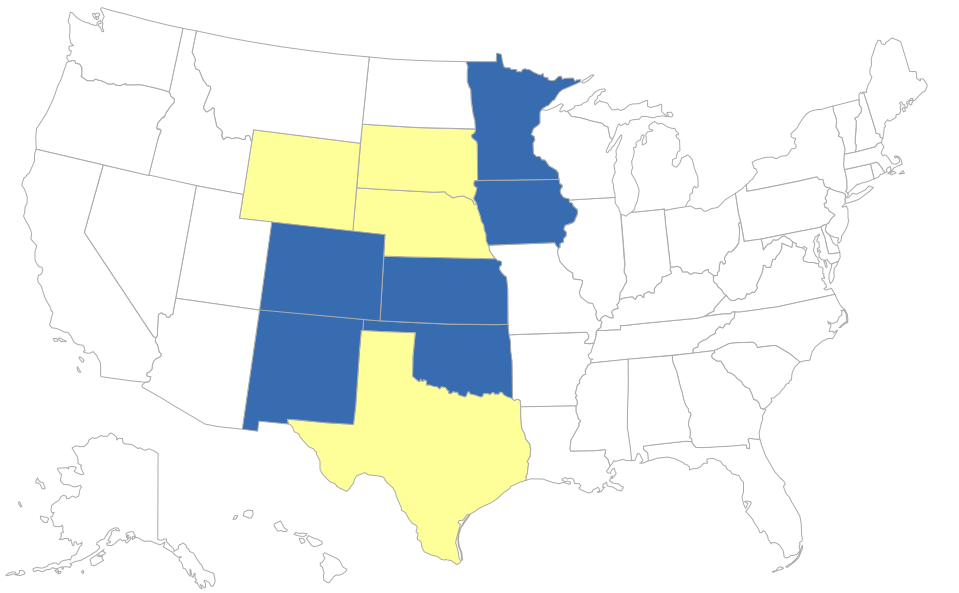
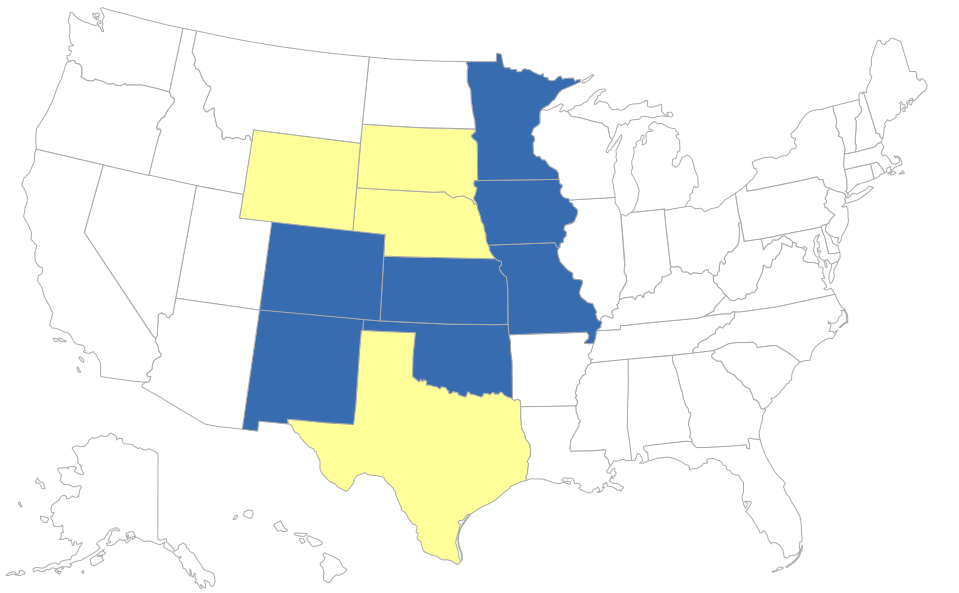
masonry!

Changed region(s): [[0.5141, 0.3946, 0.635, 0.5767]]

diff --git a/js/masonry.pkgd.min.js b/js/masonry.pkgd.min.js
@@ -1,0 +1,9 @@
+/*!
+ * Masonry PACKAGED v3.1.5
+ * Cascading grid layout library
+ * http://masonry.desandro.com
+ * MIT License
+ * by David DeSandro
+ */
+
+!function(a){function b(){}function c(a){function c(b){b.prototype.option||(b.prototype.option=function(b){a.isPlainObject(b)&&(this.options=a.extend(!0,this.options,b))})}function e(b,c){a.fn[b]=function(e){if("string"==typeof e){for(var g=d.call(arguments,1),h=0,i=this.length;i>h;h++){var j=this[h],k=a.data(j,b);if(k)if(a.isFunction(k[e])&&"_"!==e.charAt(0)){var l=k[e].apply(k,g);if(void 0!==l)return l}else f("no such method '"+e+"' for "+b+" instance");else f("cannot call methods on "+b+" prior to initialization; attempted to call '"+e+"'")}return this}return this.each(function(){var d=a.data(this,b);d?(d.option(e),d._init()):(d=new c(this,e),a.data(this,b,d))})}}if(a){var f="undefined"==typeof console?b:function(a){console.error(a)};return a.bridget=function(a,b){c(b),e(a,b)},a.bridget}}var d=Array.prototype.slice;"function"==typeof define&&define.amd?define("jquery-bridget/jquery.bridget",["jquery"],c):c(a.jQuery)}(window),function(a){function b(b){var c=a.event;return c.target=c.target||c.srcElement||b,c}var c=document.documentElement,d=function(){};c.addEventListener?d=function(a,b,c){a.addEventListener(b,c,!1)}:c.attachEvent&&(d=function(a,c,d){a[c+d]=d.handleEvent?function(){var c=b(a);d.handleEvent.call(d,c)}:function(){var c=b(a);d.call(a,c)},a.attachEvent("on"+c,a[c+d])});var e=function(){};c.removeEventListener?e=function(a,b,c){a.removeEventListener(b,c,!1)}:c.detachEvent&&(e=function(a,b,c){a.detachEvent("on"+b,a[b+c]);try{delete a[b+c]}catch(d){a[b+c]=void 0}});var f={bind:d,unbind:e};"function"==typeof define&&define.amd?define("eventie/eventie",f):"object"==typeof exports?module.exports=f:a.eventie=f}(this),function(a){function b(a){"function"==typeof a&&(b.isReady?a():f.push(a))}function c(a){var c="readystatechange"===a.type&&"complete"!==e.readyState;if(!b.isReady&&!c){b.isReady=!0;for(var d=0,g=f.length;g>d;d++){var h=f[d];h()}}}function d(d){return d.bind(e,"DOMContentLoaded",c),d.bind(e,"readystatechange",c),d.bind(a,"load",c),b}var e=a.document,f=[];b.isReady=!1,"function"==typeof define&&define.amd?(b.isReady="function"==typeof requirejs,define("doc-ready/doc-ready",["eventie/eventie"],d)):a.docReady=d(a.eventie)}(this),function(){function a(){}function b(a,b){for(var c=a.length;c--;)if(a[c].listener===b)return c;return-1}function c(a){return function(){return this[a].apply(this,arguments)}}var d=a.prototype,e=this,f=e.EventEmitter;d.getListeners=function(a){var b,c,d=this._getEvents();if(a instanceof RegExp){b={};for(c in d)d.hasOwnProperty(c)&&a.test(c)&&(b[c]=d[c])}else b=d[a]||(d[a]=[]);return b},d.flattenListeners=function(a){var b,c=[];for(b=0;b<a.length;b+=1)c.push(a[b].listener);return c},d.getListenersAsObject=function(a){var b,c=this.getListeners(a);return c instanceof Array&&(b={},b[a]=c),b||c},d.addListener=function(a,c){var d,e=this.getListenersAsObject(a),f="object"==typeof c;for(d in e)e.hasOwnProperty(d)&&-1===b(e[d],c)&&e[d].push(f?c:{listener:c,once:!1});return this},d.on=c("addListener"),d.addOnceListener=function(a,b){return this.addListener(a,{listener:b,once:!0})},d.once=c("addOnceListener"),d.defineEvent=function(a){return this.getListeners(a),this},d.defineEvents=function(a){for(var b=0;b<a.length;b+=1)this.defineEvent(a[b]);return this},d.removeListener=function(a,c){var d,e,f=this.getListenersAsObject(a);for(e in f)f.hasOwnProperty(e)&&(d=b(f[e],c),-1!==d&&f[e].splice(d,1));return this},d.off=c("removeListener"),d.addListeners=function(a,b){return this.manipulateListeners(!1,a,b)},d.removeListeners=function(a,b){return this.manipulateListeners(!0,a,b)},d.manipulateListeners=function(a,b,c){var d,e,f=a?this.removeListener:this.addListener,g=a?this.removeListeners:this.addListeners;if("object"!=typeof b||b instanceof RegExp)for(d=c.length;d--;)f.call(this,b,c[d]);else for(d in b)b.hasOwnProperty(d)&&(e=b[d])&&("function"==typeof e?f.call(this,d,e):g.call(this,d,e));return this},d.removeEvent=function(a){var b,c=typeof a,d=this._getEvents();if("string"===c)delete d[a];else if(a instanceof RegExp)for(b in d)d.hasOwnProperty(b)&&a.test(b)&&delete d[b];else delete this._events;return this},d.removeAllListeners=c("removeEvent"),d.emitEvent=function(a,b){var c,d,e,f,g=this.getListenersAsObject(a);for(e in g)if(g.hasOwnProperty(e))for(d=g[e].length;d--;)c=g[e][d],c.once===!0&&this.removeListener(a,c.listener),f=c.listener.apply(this,b||[]),f===this._getOnceReturnValue()&&this.removeListener(a,c.listener);return this},d.trigger=c("emitEvent"),d.emit=function(a){var b=Array.prototype.slice.call(arguments,1);return this.emitEvent(a,b)},d.setOnceReturnValue=function(a){return this._onceReturnValue=a,this},d._getOnceReturnValue=function(){return this.hasOwnProperty("_onceReturnValue")?this._onceReturnValue:!0},d._getEvents=function(){return this._events||(this._events={})},a.noConflict=function(){return e.EventEmitter=f,a},"function"==typeof define&&define.amd?define("eventEmitter/EventEmitter",[],function(){return a}):"object"==typeof module&&module.exports?module.exports=a:this.EventEmitter=a}.call(this),function(a){function b(a){if(a){if("string"==typeof d[a])return a;a=a.charAt(0).toUpperCase()+a.slice(1);for(var b,e=0,f=c.length;f>e;e++)if(b=c[e]+a,"string"==typeof d[b])return b}}var c="Webkit Moz ms Ms O".split(" "),d=document.documentElement.style;"function"==typeof define&&define.amd?define("get-style-property/get-style-property",[],function(){return b}):"object"==typeof exports?module.exports=b:a.getStyleProperty=b}(window),function(a){function b(a){var b=parseFloat(a),c=-1===a.indexOf("%")&&!isNaN(b);return c&&b}function c(){for(var a={width:0,height:0,innerWidth:0,innerHeight:0,outerWidth:0,outerHeight:0},b=0,c=g.length;c>b;b++){var d=g[b];a[d]=0}return a}function d(a){function d(a){if("string"==typeof a&&(a=document.querySelector(a)),a&&"object"==typeof a&&a.nodeType){var d=f(a);if("none"===d.display)return c();var e={};e.width=a.offsetWidth,e.height=a.offsetHeight;for(var k=e.isBorderBox=!(!j||!d[j]||"border-box"!==d[j]),l=0,m=g.length;m>l;l++){var n=g[l],o=d[n];o=h(a,o);var p=parseFloat(o);e[n]=isNaN(p)?0:p}var q=e.paddingLeft+e.paddingRight,r=e.paddingTop+e.paddingBottom,s=e.marginLeft+e.marginRight,t=e.marginTop+e.marginBottom,u=e.borderLeftWidth+e.borderRightWidth,v=e.borderTopWidth+e.borderBottomWidth,w=k&&i,x=b(d.width);x!==!1&&(e.width=x+(w?0:q+u));var y=b(d.height);return y!==!1&&(e.height=y+(w?0:r+v)),e.innerWidth=e.width-(q+u),e.innerHeight=e.height-(r+v),e.outerWidth=e.width+s,e.outerHeight=e.height+t,e}}function h(a,b){if(e||-1===b.indexOf("%"))return b;var c=a.style,d=c.left,f=a.runtimeStyle,g=f&&f.left;return g&&(f.left=a.currentStyle.left),c.left=b,b=c.pixelLeft,c.left=d,g&&(f.left=g),b}var i,j=a("boxSizing");return function(){if(j){var a=document.createElement("div");a.style.width="200px",a.style.padding="1px 2px 3px 4px",a.style.borderStyle="solid",a.style.borderWidth="1px 2px 3px 4px",a.style[j]="border-box";var c=document.body||document.documentElement;c.appendChild(a);var d=f(a);i=200===b(d.width),c.removeChild(a)}}(),d}var e=a.getComputedStyle,f=e?function(a){return e(a,null)}:function(a){return a.currentStyle},g=["paddingLeft","paddingRight","paddingTop","paddingBottom","marginLeft","marginRight","marginTop","marginBottom","borderLeftWidth","borderRightWidth","borderTopWidth","borderBottomWidth"];"function"==typeof define&&define.amd?define("get-size/get-size",["get-style-property/get-style-property"],d):"object"==typeof exports?module.exports=d(require("get-style-property")):a.getSize=d(a.getStyleProperty)}(window),function(a,b){function c(a,b){return a[h](b)}function d(a){if(!a.parentNode){var b=document.createDocumentFragment();b.appendChild(a)}}function e(a,b){d(a);for(var c=a.parentNode.querySelectorAll(b),e=0,f=c.length;f>e;e++)if(c[e]===a)return!0;return!1}function f(a,b){return d(a),c(a,b)}var g,h=function(){if(b.matchesSelector)return"matchesSelector";for(var a=["webkit","moz","ms","o"],c=0,d=a.length;d>c;c++){var e=a[c],f=e+"MatchesSelector";if(b[f])return f}}();if(h){var i=document.createElement("div"),j=c(i,"div");g=j?c:f}else g=e;"function"==typeof define&&define.amd?define("matches-selector/matches-selector",[],function(){return g}):window.matchesSelector=g}(this,Element.prototype),function(a){function b(a,b){for(var c in b)a[c]=b[c];return a}function c(a){for(var b in a)return!1;return b=null,!0}function d(a){return a.replace(/([A-Z])/g,function(a){return"-"+a.toLowerCase()})}function e(a,e,f){function h(a,b){a&&(this.element=a,this.layout=b,this.position={x:0,y:0},this._create())}var i=f("transition"),j=f("transform"),k=i&&j,l=!!f("perspective"),m={WebkitTransition:"webkitTransitionEnd",MozTransition:"transitionend",OTransition:"otransitionend",transition:"transitionend"}[i],n=["transform","transition","transitionDuration","transitionProperty"],o=function(){for(var a={},b=0,c=n.length;c>b;b++){var d=n[b],e=f(d);e&&e!==d&&(a[d]=e)}return a}();b(h.prototype,a.prototype),h.prototype._create=function(){this._transn={ingProperties:{},clean:{},onEnd:{}},this.css({position:"absolute"})},h.prototype.handleEvent=function(a){var b="on"+a.type;this[b]&&this[b](a)},h.prototype.getSize=function(){this.size=e(this.element)},h.prototype.css=function(a){var b=this.element.style;for(var c in a){var d=o[c]||c;b[d]=a[c]}},h.prototype.getPosition=function(){var a=g(this.element),b=this.layout.options,c=b.isOriginLeft,d=b.isOriginTop,e=parseInt(a[c?"left":"right"],10),f=parseInt(a[d?"top":"bottom"],10);e=isNaN(e)?0:e,f=isNaN(f)?0:f;var h=this.layout.size;e-=c?h.paddingLeft:h.paddingRight,f-=d?h.paddingTop:h.paddingBottom,this.position.x=e,this.position.y=f},h.prototype.layoutPosition=function(){var a=this.layout.size,b=this.layout.options,c={};b.isOriginLeft?(c.left=this.position.x+a.paddingLeft+"px",c.right=""):(c.right=this.position.x+a.paddingRight+"px",c.left=""),b.isOriginTop?(c.top=this.position.y+a.paddingTop+"px",c.bottom=""):(c.bottom=this.position.y+a.paddingBottom+"px",c.top=""),this.css(c),this.emitEvent("layout",[this])};var p=l?function(a,b){return"translate3d("+a+"px, "+b+"px, 0)"}:function(a,b){return"translate("+a+"px, "+b+"px)"};h.prototype._transitionTo=function(a,b){this.getPosition();var c=this.position.x,d=this.position.y,e=parseInt(a,10),f=parseInt(b,10),g=e===this.position.x&&f===this.position.y;if(this.setPosition(a,b),g&&!this.isTransitioning)return void this.layoutPosition();var h=a-c,i=b-d,j={},k=this.layout.options;h=k.isOriginLeft?h:-h,i=k.isOriginTop?i:-i,j.transform=p(h,i),this.transition({to:j,onTransitionEnd:{transform:this.layoutPosition},isCleaning:!0})},h.prototype.goTo=function(a,b){this.setPosition(a,b),this.layoutPosition()},h.prototype.moveTo=k?h.prototype._transitionTo:h.prototype.goTo,h.prototype.setPosition=function(a,b){this.position.x=parseInt(a,10),this.position.y=parseInt(b,10)},h.prototype._nonTransition=function(a){this.css(a.to),a.isCleaning&&this._removeStyles(a.to);for(var b in a.onTransitionEnd)a.onTransitionEnd[b].call(this)},h.prototype._transition=function(a){if(!parseFloat(this.layout.options.transitionDuration))return void this._nonTransition(a);var b=this._transn;for(var c in a.onTransitionEnd)b.onEnd[c]=a.onTransitionEnd[c];for(c in a.to)b.ingProperties[c]=!0,a.isCleaning&&(b.clean[c]=!0);if(a.from){this.css(a.from);var d=this.element.offsetHeight;d=null}this.enableTransition(a.to),this.css(a.to),this.isTransitioning=!0};var q=j&&d(j)+",opacity";h.prototype.enableTransition=function(){this.isTransitioning||(this.css({transitionProperty:q,transitionDuration:this.layout.options.transitionDuration}),this.element.addEventListener(m,this,!1))},h.prototype.transition=h.prototype[i?"_transition":"_nonTransition"],h.prototype.onwebkitTransitionEnd=function(a){this.ontransitionend(a)},h.prototype.onotransitionend=function(a){this.ontransitionend(a)};var r={"-webkit-transform":"transform","-moz-transform":"transform","-o-transform":"transform"};h.prototype.ontransitionend=function(a){if(a.target===this.element){var b=this._transn,d=r[a.propertyName]||a.propertyName;if(delete b.ingProperties[d],c(b.ingProperties)&&this.disableTransition(),d in b.clean&&(this.element.style[a.propertyName]="",delete b.clean[d]),d in b.onEnd){var e=b.onEnd[d];e.call(this),delete b.onEnd[d]}this.emitEvent("transitionEnd",[this])}},h.prototype.disableTransition=function(){this.removeTransitionStyles(),this.element.removeEventListener(m,this,!1),this.isTransitioning=!1},h.prototype._removeStyles=function(a){var b={};for(var c in a)b[c]="";this.css(b)};var s={transitionProperty:"",transitionDuration:""};return h.prototype.removeTransitionStyles=function(){this.css(s)},h.prototype.removeElem=function(){this.element.parentNode.removeChild(this.element),this.emitEvent("remove",[this])},h.prototype.remove=function(){if(!i||!parseFloat(this.layout.options.transitionDuration))return void this.removeElem();var a=this;this.on("transitionEnd",function(){return a.removeElem(),!0}),this.hide()},h.prototype.reveal=function(){delete this.isHidden,this.css({display:""});var a=this.layout.options;this.transition({from:a.hiddenStyle,to:a.visibleStyle,isCleaning:!0})},h.prototype.hide=function(){this.isHidden=!0,this.css({display:""});var a=this.layout.options;this.transition({from:a.visibleStyle,to:a.hiddenStyle,isCleaning:!0,onTransitionEnd:{opacity:function(){this.isHidden&&this.css({display:"none"})}}})},h.prototype.destroy=function(){this.css({position:"",left:"",right:"",top:"",bottom:"",transition:"",transform:""})},h}var f=a.getComputedStyle,g=f?function(a){return f(a,null)}:function(a){return a.currentStyle};"function"==typeof define&&define.amd?define("outlayer/item",["eventEmitter/EventEmitter","get-size/get-size","get-style-property/get-style-property"],e):(a.Outlayer={},a.Outlayer.Item=e(a.EventEmitter,a.getSize,a.getStyleProperty))}(window),function(a){function b(a,b){for(var c in b)a[c]=b[c];return a}function c(a){return"[object Array]"===l.call(a)}function d(a){var b=[];if(c(a))b=a;else if(a&&"number"==typeof a.length)for(var d=0,e=a.length;e>d;d++)b.push(a[d]);else b.push(a);return b}function e(a,b){var c=n(b,a);-1!==c&&b.splice(c,1)}function f(a){return a.replace(/(.)([A-Z])/g,function(a,b,c){return b+"-"+c}).toLowerCase()}function g(c,g,l,n,o,p){function q(a,c){if("string"==typeof a&&(a=h.querySelector(a)),!a||!m(a))return void(i&&i.error("Bad "+this.constructor.namespace+" element: "+a));this.element=a,this.options=b({},this.constructor.defaults),this.option(c);var d=++r;this.element.outlayerGUID=d,s[d]=this,this._create(),this.options.isInitLayout&&this.layout()}var r=0,s={};return q.namespace="outlayer",q.Item=p,q.defaults={containerStyle:{position:"relative"},isInitLayout:!0,isOriginLeft:!0,isOriginTop:!0,isResizeBound:!0,isResizingContainer:!0,transitionDuration:"0.4s",hiddenStyle:{opacity:0,transform:"scale(0.001)"},visibleStyle:{opacity:1,transform:"scale(1)"}},b(q.prototype,l.prototype),q.prototype.option=function(a){b(this.options,a)},q.prototype._create=function(){this.reloadItems(),this.stamps=[],this.stamp(this.options.stamp),b(this.element.style,this.options.containerStyle),this.options.isResizeBound&&this.bindResize()},q.prototype.reloadItems=function(){this.items=this._itemize(this.element.children)},q.prototype._itemize=function(a){for(var b=this._filterFindItemElements(a),c=this.constructor.Item,d=[],e=0,f=b.length;f>e;e++){var g=b[e],h=new c(g,this);d.push(h)}return d},q.prototype._filterFindItemElements=function(a){a=d(a);for(var b=this.options.itemSelector,c=[],e=0,f=a.length;f>e;e++){var g=a[e];if(m(g))if(b){o(g,b)&&c.push(g);for(var h=g.querySelectorAll(b),i=0,j=h.length;j>i;i++)c.push(h[i])}else c.push(g)}return c},q.prototype.getItemElements=function(){for(var a=[],b=0,c=this.items.length;c>b;b++)a.push(this.items[b].element);return a},q.prototype.layout=function(){this._resetLayout(),this._manageStamps();var a=void 0!==this.options.isLayoutInstant?this.options.isLayoutInstant:!this._isLayoutInited;this.layoutItems(this.items,a),this._isLayoutInited=!0},q.prototype._init=q.prototype.layout,q.prototype._resetLayout=function(){this.getSize()},q.prototype.getSize=function(){this.size=n(this.element)},q.prototype._getMeasurement=function(a,b){var c,d=this.options[a];d?("string"==typeof d?c=this.element.querySelector(d):m(d)&&(c=d),this[a]=c?n(c)[b]:d):this[a]=0},q.prototype.layoutItems=function(a,b){a=this._getItemsForLayout(a),this._layoutItems(a,b),this._postLayout()},q.prototype._getItemsForLayout=function(a){for(var b=[],c=0,d=a.length;d>c;c++){var e=a[c];e.isIgnored||b.push(e)}return b},q.prototype._layoutItems=function(a,b){function c(){d.emitEvent("layoutComplete",[d,a])}var d=this;if(!a||!a.length)return void c();this._itemsOn(a,"layout",c);for(var e=[],f=0,g=a.length;g>f;f++){var h=a[f],i=this._getItemLayoutPosition(h);i.item=h,i.isInstant=b||h.isLayoutInstant,e.push(i)}this._processLayoutQueue(e)},q.prototype._getItemLayoutPosition=function(){return{x:0,y:0}},q.prototype._processLayoutQueue=function(a){for(var b=0,c=a.length;c>b;b++){var d=a[b];this._positionItem(d.item,d.x,d.y,d.isInstant)}},q.prototype._positionItem=function(a,b,c,d){d?a.goTo(b,c):a.moveTo(b,c)},q.prototype._postLayout=function(){this.resizeContainer()},q.prototype.resizeContainer=function(){if(this.options.isResizingContainer){var a=this._getContainerSize();a&&(this._setContainerMeasure(a.width,!0),this._setContainerMeasure(a.height,!1))}},q.prototype._getContainerSize=k,q.prototype._setContainerMeasure=function(a,b){if(void 0!==a){var c=this.size;c.isBorderBox&&(a+=b?c.paddingLeft+c.paddingRight+c.borderLeftWidth+c.borderRightWidth:c.paddingBottom+c.paddingTop+c.borderTopWidth+c.borderBottomWidth),a=Math.max(a,0),this.element.style[b?"width":"height"]=a+"px"}},q.prototype._itemsOn=function(a,b,c){function d(){return e++,e===f&&c.call(g),!0}for(var e=0,f=a.length,g=this,h=0,i=a.length;i>h;h++){var j=a[h];j.on(b,d)}},q.prototype.ignore=function(a){var b=this.getItem(a);b&&(b.isIgnored=!0)},q.prototype.unignore=function(a){var b=this.getItem(a);b&&delete b.isIgnored},q.prototype.stamp=function(a){if(a=this._find(a)){this.stamps=this.stamps.concat(a);for(var b=0,c=a.length;c>b;b++){var d=a[b];this.ignore(d)}}},q.prototype.unstamp=function(a){if(a=this._find(a))for(var b=0,c=a.length;c>b;b++){var d=a[b];e(d,this.stamps),this.unignore(d)}},q.prototype._find=function(a){return a?("string"==typeof a&&(a=this.element.querySelectorAll(a)),a=d(a)):void 0},q.prototype._manageStamps=function(){if(this.stamps&&this.stamps.length){this._getBoundingRect();for(var a=0,b=this.stamps.length;b>a;a++){var c=this.stamps[a];this._manageStamp(c)}}},q.prototype._getBoundingRect=function(){var a=this.element.getBoundingClientRect(),b=this.size;this._boundingRect={left:a.left+b.paddingLeft+b.borderLeftWidth,top:a.top+b.paddingTop+b.borderTopWidth,right:a.right-(b.paddingRight+b.borderRightWidth),bottom:a.bottom-(b.paddingBottom+b.borderBottomWidth)}},q.prototype._manageStamp=k,q.prototype._getElementOffset=function(a){var b=a.getBoundingClientRect(),c=this._boundingRect,d=n(a),e={left:b.left-c.left-d.marginLeft,top:b.top-c.top-d.marginTop,right:c.right-b.right-d.marginRight,bottom:c.bottom-b.bottom-d.marginBottom};return e},q.prototype.handleEvent=function(a){var b="on"+a.type;this[b]&&this[b](a)},q.prototype.bindResize=function(){this.isResizeBound||(c.bind(a,"resize",this),this.isResizeBound=!0)},q.prototype.unbindResize=function(){this.isResizeBound&&c.unbind(a,"resize",this),this.isResizeBound=!1},q.prototype.onresize=function(){function a(){b.resize(),delete b.resizeTimeout}this.resizeTimeout&&clearTimeout(this.resizeTimeout);var b=this;this.resizeTimeout=setTimeout(a,100)},q.prototype.resize=function(){this.isResizeBound&&this.needsResizeLayout()&&this.layout()},q.prototype.needsResizeLayout=function(){var a=n(this.element),b=this.size&&a;return b&&a.innerWidth!==this.size.innerWidth},q.prototype.addItems=function(a){var b=this._itemize(a);return b.length&&(this.items=this.items.concat(b)),b},q.prototype.appended=function(a){var b=this.addItems(a);b.length&&(this.layoutItems(b,!0),this.reveal(b))},q.prototype.prepended=function(a){var b=this._itemize(a);if(b.length){var c=this.items.slice(0);this.items=b.concat(c),this._resetLayout(),this._manageStamps(),this.layoutItems(b,!0),this.reveal(b),this.layoutItems(c)}},q.prototype.reveal=function(a){var b=a&&a.length;if(b)for(var c=0;b>c;c++){var d=a[c];d.reveal()}},q.prototype.hide=function(a){var b=a&&a.length;if(b)for(var c=0;b>c;c++){var d=a[c];d.hide()}},q.prototype.getItem=function(a){for(var b=0,c=this.items.length;c>b;b++){var d=this.items[b];if(d.element===a)return d}},q.prototype.getItems=function(a){if(a&&a.length){for(var b=[],c=0,d=a.length;d>c;c++){var e=a[c],f=this.getItem(e);f&&b.push(f)}return b}},q.prototype.remove=function(a){a=d(a);var b=this.getItems(a);if(b&&b.length){this._itemsOn(b,"remove",function(){this.emitEvent("removeComplete",[this,b])});for(var c=0,f=b.length;f>c;c++){var g=b[c];g.remove(),e(g,this.items)}}},q.prototype.destroy=function(){var a=this.element.style;a.height="",a.position="",a.width="";for(var b=0,c=this.items.length;c>b;b++){var d=this.items[b];d.destroy()}this.unbindResize(),delete this.element.outlayerGUID,j&&j.removeData(this.element,this.constructor.namespace)},q.data=function(a){var b=a&&a.outlayerGUID;return b&&s[b]},q.create=function(a,c){function d(){q.apply(this,arguments)}return Object.create?d.prototype=Object.create(q.prototype):b(d.prototype,q.prototype),d.prototype.constructor=d,d.defaults=b({},q.defaults),b(d.defaults,c),d.prototype.settings={},d.namespace=a,d.data=q.data,d.Item=function(){p.apply(this,arguments)},d.Item.prototype=new p,g(function(){for(var b=f(a),c=h.querySelectorAll(".js-"+b),e="data-"+b+"-options",g=0,k=c.length;k>g;g++){var l,m=c[g],n=m.getAttribute(e);try{l=n&&JSON.parse(n)}catch(o){i&&i.error("Error parsing "+e+" on "+m.nodeName.toLowerCase()+(m.id?"#"+m.id:"")+": "+o);continue}var p=new d(m,l);j&&j.data(m,a,p)}}),j&&j.bridget&&j.bridget(a,d),d},q.Item=p,q}var h=a.document,i=a.console,j=a.jQuery,k=function(){},l=Object.prototype.toString,m="object"==typeof HTMLElement?function(a){return a instanceof HTMLElement}:function(a){return a&&"object"==typeof a&&1===a.nodeType&&"string"==typeof a.nodeName},n=Array.prototype.indexOf?function(a,b){return a.indexOf(b)}:function(a,b){for(var c=0,d=a.length;d>c;c++)if(a[c]===b)return c;return-1};"function"==typeof define&&define.amd?define("outlayer/outlayer",["eventie/eventie","doc-ready/doc-ready","eventEmitter/EventEmitter","get-size/get-size","matches-selector/matches-selector","./item"],g):a.Outlayer=g(a.eventie,a.docReady,a.EventEmitter,a.getSize,a.matchesSelector,a.Outlayer.Item)}(window),function(a){function b(a,b){var d=a.create("masonry");return d.prototype._resetLayout=function(){this.getSize(),this._getMeasurement("columnWidth","outerWidth"),this._getMeasurement("gutter","outerWidth"),this.measureColumns();var a=this.cols;for(this.colYs=[];a--;)this.colYs.push(0);this.maxY=0},d.prototype.measureColumns=function(){if(this.getContainerWidth(),!this.columnWidth){var a=this.items[0],c=a&&a.element;this.columnWidth=c&&b(c).outerWidth||this.containerWidth}this.columnWidth+=this.gutter,this.cols=Math.floor((this.containerWidth+this.gutter)/this.columnWidth),this.cols=Math.max(this.cols,1)},d.prototype.getContainerWidth=function(){var a=this.options.isFitWidth?this.element.parentNode:this.element,c=b(a);this.containerWidth=c&&c.innerWidth},d.prototype._getItemLayoutPosition=function(a){a.getSize();var b=a.size.outerWidth%this.columnWidth,d=b&&1>b?"round":"ceil",e=Math[d](a.size.outerWidth/this.columnWidth);e=Math.min(e,this.cols);for(var f=this._getColGroup(e),g=Math.min.apply(Math,f),h=c(f,g),i={x:this.columnWidth*h,y:g},j=g+a.size.outerHeight,k=this.cols+1-f.length,l=0;k>l;l++)this.colYs[h+l]=j;return i},d.prototype._getColGroup=function(a){if(2>a)return this.colYs;for(var b=[],c=this.cols+1-a,d=0;c>d;d++){var e=this.colYs.slice(d,d+a);b[d]=Math.max.apply(Math,e)}return b},d.prototype._manageStamp=function(a){var c=b(a),d=this._getElementOffset(a),e=this.options.isOriginLeft?d.left:d.right,f=e+c.outerWidth,g=Math.floor(e/this.columnWidth);g=Math.max(0,g);var h=Math.floor(f/this.columnWidth);h-=f%this.columnWidth?0:1,h=Math.min(this.cols-1,h);for(var i=(this.options.isOriginTop?d.top:d.bottom)+c.outerHeight,j=g;h>=j;j++)this.colYs[j]=Math.max(i,this.colYs[j])},d.prototype._getContainerSize=function(){this.maxY=Math.max.apply(Math,this.colYs);var a={height:this.maxY};return this.options.isFitWidth&&(a.width=this._getContainerFitWidth()),a},d.prototype._getContainerFitWidth=function(){for(var a=0,b=this.cols;--b&&0===this.colYs[b];)a++;return(this.cols-a)*this.columnWidth-this.gutter},d.prototype.needsResizeLayout=function(){var a=this.containerWidth;return this.getContainerWidth(),a!==this.containerWidth},d}var c=Array.prototype.indexOf?function(a,b){return a.indexOf(b)}:function(a,b){for(var c=0,d=a.length;d>c;c++){var e=a[c];if(e===b)return c}return-1};"function"==typeof define&&define.amd?define(["outlayer/outlayer","get-size/get-size"],b):a.Masonry=b(a.Outlayer,a.getSize)}(window);

diff --git a/js/imagesloaded.pkgd.min.js b/js/imagesloaded.pkgd.min.js
@@ -1,0 +1,7 @@
+/*!
+ * imagesLoaded PACKAGED v3.1.8
+ * JavaScript is all like "You images are done yet or what?"
+ * MIT License
+ */
+
+(function(){function e(){}function t(e,t){for(var n=e.length;n--;)if(e[n].listener===t)return n;return-1}function n(e){return function(){return this[e].apply(this,arguments)}}var i=e.prototype,r=this,o=r.EventEmitter;i.getListeners=function(e){var t,n,i=this._getEvents();if("object"==typeof e){t={};for(n in i)i.hasOwnProperty(n)&&e.test(n)&&(t[n]=i[n])}else t=i[e]||(i[e]=[]);return t},i.flattenListeners=function(e){var t,n=[];for(t=0;e.length>t;t+=1)n.push(e[t].listener);return n},i.getListenersAsObject=function(e){var t,n=this.getListeners(e);return n instanceof Array&&(t={},t[e]=n),t||n},i.addListener=function(e,n){var i,r=this.getListenersAsObject(e),o="object"==typeof n;for(i in r)r.hasOwnProperty(i)&&-1===t(r[i],n)&&r[i].push(o?n:{listener:n,once:!1});return this},i.on=n("addListener"),i.addOnceListener=function(e,t){return this.addListener(e,{listener:t,once:!0})},i.once=n("addOnceListener"),i.defineEvent=function(e){return this.getListeners(e),this},i.defineEvents=function(e){for(var t=0;e.length>t;t+=1)this.defineEvent(e[t]);return this},i.removeListener=function(e,n){var i,r,o=this.getListenersAsObject(e);for(r in o)o.hasOwnProperty(r)&&(i=t(o[r],n),-1!==i&&o[r].splice(i,1));return this},i.off=n("removeListener"),i.addListeners=function(e,t){return this.manipulateListeners(!1,e,t)},i.removeListeners=function(e,t){return this.manipulateListeners(!0,e,t)},i.manipulateListeners=function(e,t,n){var i,r,o=e?this.removeListener:this.addListener,s=e?this.removeListeners:this.addListeners;if("object"!=typeof t||t instanceof RegExp)for(i=n.length;i--;)o.call(this,t,n[i]);else for(i in t)t.hasOwnProperty(i)&&(r=t[i])&&("function"==typeof r?o.call(this,i,r):s.call(this,i,r));return this},i.removeEvent=function(e){var t,n=typeof e,i=this._getEvents();if("string"===n)delete i[e];else if("object"===n)for(t in i)i.hasOwnProperty(t)&&e.test(t)&&delete i[t];else delete this._events;return this},i.removeAllListeners=n("removeEvent"),i.emitEvent=function(e,t){var n,i,r,o,s=this.getListenersAsObject(e);for(r in s)if(s.hasOwnProperty(r))for(i=s[r].length;i--;)n=s[r][i],n.once===!0&&this.removeListener(e,n.listener),o=n.listener.apply(this,t||[]),o===this._getOnceReturnValue()&&this.removeListener(e,n.listener);return this},i.trigger=n("emitEvent"),i.emit=function(e){var t=Array.prototype.slice.call(arguments,1);return this.emitEvent(e,t)},i.setOnceReturnValue=function(e){return this._onceReturnValue=e,this},i._getOnceReturnValue=function(){return this.hasOwnProperty("_onceReturnValue")?this._onceReturnValue:!0},i._getEvents=function(){return this._events||(this._events={})},e.noConflict=function(){return r.EventEmitter=o,e},"function"==typeof define&&define.amd?define("eventEmitter/EventEmitter",[],function(){return e}):"object"==typeof module&&module.exports?module.exports=e:this.EventEmitter=e}).call(this),function(e){function t(t){var n=e.event;return n.target=n.target||n.srcElement||t,n}var n=document.documentElement,i=function(){};n.addEventListener?i=function(e,t,n){e.addEventListener(t,n,!1)}:n.attachEvent&&(i=function(e,n,i){e[n+i]=i.handleEvent?function(){var n=t(e);i.handleEvent.call(i,n)}:function(){var n=t(e);i.call(e,n)},e.attachEvent("on"+n,e[n+i])});var r=function(){};n.removeEventListener?r=function(e,t,n){e.removeEventListener(t,n,!1)}:n.detachEvent&&(r=function(e,t,n){e.detachEvent("on"+t,e[t+n]);try{delete e[t+n]}catch(i){e[t+n]=void 0}});var o={bind:i,unbind:r};"function"==typeof define&&define.amd?define("eventie/eventie",o):e.eventie=o}(this),function(e,t){"function"==typeof define&&define.amd?define(["eventEmitter/EventEmitter","eventie/eventie"],function(n,i){return t(e,n,i)}):"object"==typeof exports?module.exports=t(e,require("wolfy87-eventemitter"),require("eventie")):e.imagesLoaded=t(e,e.EventEmitter,e.eventie)}(window,function(e,t,n){function i(e,t){for(var n in t)e[n]=t[n];return e}function r(e){return"[object Array]"===d.call(e)}function o(e){var t=[];if(r(e))t=e;else if("number"==typeof e.length)for(var n=0,i=e.length;i>n;n++)t.push(e[n]);else t.push(e);return t}function s(e,t,n){if(!(this instanceof s))return new s(e,t);"string"==typeof e&&(e=document.querySelectorAll(e)),this.elements=o(e),this.options=i({},this.options),"function"==typeof t?n=t:i(this.options,t),n&&this.on("always",n),this.getImages(),a&&(this.jqDeferred=new a.Deferred);var r=this;setTimeout(function(){r.check()})}function f(e){this.img=e}function c(e){this.src=e,v[e]=this}var a=e.jQuery,u=e.console,h=u!==void 0,d=Object.prototype.toString;s.prototype=new t,s.prototype.options={},s.prototype.getImages=function(){this.images=[];for(var e=0,t=this.elements.length;t>e;e++){var n=this.elements[e];"IMG"===n.nodeName&&this.addImage(n);var i=n.nodeType;if(i&&(1===i||9===i||11===i))for(var r=n.querySelectorAll("img"),o=0,s=r.length;s>o;o++){var f=r[o];this.addImage(f)}}},s.prototype.addImage=function(e){var t=new f(e);this.images.push(t)},s.prototype.check=function(){function e(e,r){return t.options.debug&&h&&u.log("confirm",e,r),t.progress(e),n++,n===i&&t.complete(),!0}var t=this,n=0,i=this.images.length;if(this.hasAnyBroken=!1,!i)return this.complete(),void 0;for(var r=0;i>r;r++){var o=this.images[r];o.on("confirm",e),o.check()}},s.prototype.progress=function(e){this.hasAnyBroken=this.hasAnyBroken||!e.isLoaded;var t=this;setTimeout(function(){t.emit("progress",t,e),t.jqDeferred&&t.jqDeferred.notify&&t.jqDeferred.notify(t,e)})},s.prototype.complete=function(){var e=this.hasAnyBroken?"fail":"done";this.isComplete=!0;var t=this;setTimeout(function(){if(t.emit(e,t),t.emit("always",t),t.jqDeferred){var n=t.hasAnyBroken?"reject":"resolve";t.jqDeferred[n](t)}})},a&&(a.fn.imagesLoaded=function(e,t){var n=new s(this,e,t);return n.jqDeferred.promise(a(this))}),f.prototype=new t,f.prototype.check=function(){var e=v[this.img.src]||new c(this.img.src);if(e.isConfirmed)return this.confirm(e.isLoaded,"cached was confirmed"),void 0;if(this.img.complete&&void 0!==this.img.naturalWidth)return this.confirm(0!==this.img.naturalWidth,"naturalWidth"),void 0;var t=this;e.on("confirm",function(e,n){return t.confirm(e.isLoaded,n),!0}),e.check()},f.prototype.confirm=function(e,t){this.isLoaded=e,this.emit("confirm",this,t)};var v={};return c.prototype=new t,c.prototype.check=function(){if(!this.isChecked){var e=new Image;n.bind(e,"load",this),n.bind(e,"error",this),e.src=this.src,this.isChecked=!0}},c.prototype.handleEvent=function(e){var t="on"+e.type;this[t]&&this[t](e)},c.prototype.onload=function(e){this.confirm(!0,"onload"),this.unbindProxyEvents(e)},c.prototype.onerror=function(e){this.confirm(!1,"onerror"),this.unbindProxyEvents(e)},c.prototype.confirm=function(e,t){this.isConfirmed=!0,this.isLoaded=e,this.emit("confirm",this,t)},c.prototype.unbindProxyEvents=function(e){n.unbind(e.target,"load",this),n.unbind(e.target,"error",this)},s});

diff --git a/index.html b/index.html
@@ -21,7 +21,7 @@
 <body>
         <div class="row" style="margin:0;">
             <div class="col-md-4" style="background:#fff; padding:50px; margin:0;" id="side">
-                <h1 class="bold fancy" style="font-size:3em;">Winchester!</h1>
+                <h1 class="bold fancy" style="font-size:3.5em;">Winchester!</h1>
 
                 <p class="lead">I cover local government for the Omaha World-Herald.</p>
 
@@ -73,15 +73,15 @@
             </div>     
             <script type="text/html" class="template">            
             <% _.each( banana, function( project ){ %>
-                <div class="item searchable <%- project.type %>" data-index="<%= project.hed.toLowerCase() %><% if ( project.tools ){ %> <%= project.tools.join(' ') %><% } %>" style="border-left:6px solid <% if ( project.type === "web" ) { %>#4393c3<% } else { %>#de2d26<%} %>;">
+                <div class="item searchable <%- project.type %>" data-index="<%= project.hed.toLowerCase() %><% if ( project.tools ){ %> <%= project.tools.join(' ') %><% } %>" style="border-top:6px solid <% if ( project.type === "web" ) { %>#4393c3<% } else { %>#de2d26<%} %>;">
                     <p class="smallblock bold" style="margin-bottom:-15px;">
                     <%- apDate(project.date) %>           
                     </p>
-                    <h2 class="bold" style="color: <% if ( project.type === "web" ) { %>#4393c3<% } else { %>#de2d26<%} %>">
+                    <h3 class="bold" style="color: <% if ( project.type === "web" ) { %>#4393c3<% } else { %>#de2d26<%} %>">
                     <a href="<%- project.url %>" target="_blank">
                     <%- project.hed %>
                     </a>
-                    </h2>
+                    </h3>
                     <p>
                         <%= project.desc %> 
                         <% if ( project.collab ){ %> With
@@ -104,7 +104,10 @@
     "http://ajax.googleapis.com/ajax/libs/jquery/1.11.1/jquery.min.js"></script>
     <script src="js/underscore-min.js"></script>
     <script src="js/projects.js"></script>
+    <script src='js/masonry.pkgd.min.js'></script>
+    <script src='js/imagesloaded.pkgd.min.js'></script>
     <script src="js/main.js"></script>
     <script src="http://spreadsheets.google.com/feeds/list/1_3PoM7f6XIyKNbqTwgwUJK9HtjueappbJ73csuzHKdI/od6/public/values?alt=json-in-script&amp;callback=displayContent" type="text/javascript"></script>
+    
 </body>
 </html>

diff --git a/css/main.css b/css/main.css
@@ -4,12 +4,11 @@ a, a:hover { font-weight:bold; color:inherit;}
 .italic { font-style:italic }
 .blue { color:#4393c3 }
 .red { color:#de2d26 }
-.item { padding: 0 15px 0 20px; margin:30px 30px 60px 30px;}
+.item { padding: 20px; margin:30px; width:300px; float:left; background:#fff;} 
 .smallblock { font-size:75%; text-transform:uppercase; color:#999; }
 iframe { max-width:100%; height:175px; }
 .caption p { font-size:small;}
 #side h3 { margin-top:35px; }
-
 .fancy { font-family: 'Lobster', 'Helvetica Neue', Arial, sans-serif; color:#4393c3; -webkit-animation-name: pulse; -webkit-animation-duration: 5s; -webkit-animation-timing-function: ease; -webkit-animation-iteration-count: infinite; -webkit-animation-direction: alternate; -webkit-animation-play-state: running; -moz-animation-name: pulse; -moz-animation-duration: 5s; -moz-animation-timing-function: ease; -moz-animation-iteration-count: infinite; -moz-animation-direction: alternate; -moz-animation-play-state: running; animation-name: pulse; animation-duration: 5s; animation-timing-function: ease; animation-iteration-count: infinite; animation-direction: alternate; animation-play-state: running; }
 
 @-webkit-keyframes pulse { from { color:#4393c3;} to { color:#de2d26; } }

diff --git a/js/main.js b/js/main.js
@@ -25,8 +25,17 @@ _.templateSettings.variable = "banana";
 var template = _.template($( "script.template" ).html());            
 $('#projects').html(template( data ));
 
+var container = document.querySelector('#projects');
+var msnry;
+imagesLoaded( container, function() {
+  msnry = new Masonry( container, {
+          columnWidth: 100,
+          itemSelector: '.item'
+        });
+});
+
 $('#projects > div > p > a').each(function() {
-    var acol = $(this).parent().parent().css("border-left-color");
+    var acol = $(this).parent().parent().css("border-top-color");
     $(this).css('color', acol);        
 });
 

diff --git a/z/usa/index.html b/z/usa/index.html
@@ -27,7 +27,7 @@
            </div>
 </body>
 
-<script src="http://ajax.googleapis.com/ajax/libs/jquery/1.11.1/jquery.min.js"></script>
+<script src="../../js/jquery.min.js"></script>
 <script src="../../js/underscore-min.js"></script>
 <script src="js/main.js"></script>
 

diff --git a/z/usa/map-parser.py b/z/usa/map-parser.py
@@ -1,6 +1,6 @@
 from bs4 import BeautifulSoup
 
-travel = [{'name':'cody','lived':['TX','WY','SD','NE','CO'],'visited':['OR','WA','ID','MT','ND','MN','UT','NM','OK','KS','IA','MO','MA','TN','FL','VA','KY']},{'name':'laurel','lived':['TX','WY','SD','NE','CO','FL'],'visited':['WA','OR','ID','MN','OK','IA','KS','TN','KY','GA','AL','MO','NM']},{'name':'julian','lived':['TX','WY','SD','NE'],'visited':['MN','OK','IA','CO','KS','NM']},{'name':'lucy','lived':['SD','NE'],'visited':['WY','MN','IA','OK','KS']}]
+travel = [{'name':'cody','lived':['TX','WY','SD','NE','CO'],'visited':['OR','WA','ID','MT','ND','MN','UT','NM','OK','KS','IA','MO','MA','TN','FL','VA','KY']},{'name':'laurel','lived':['TX','WY','SD','NE','CO','FL'],'visited':['WA','OR','ID','MN','OK','IA','KS','TN','KY','GA','AL','MO','NM']},{'name':'julian','lived':['TX','WY','SD','NE'],'visited':['MN','OK','IA','CO','KS','NM','MO']},{'name':'lucy','lived':['SD','NE'],'visited':['WY','MN','IA','OK','KS','MO']}]
 
 for person in travel:
     svg = open('states.svg', 'rb').read()
